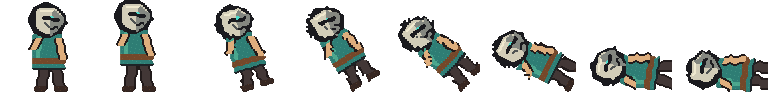
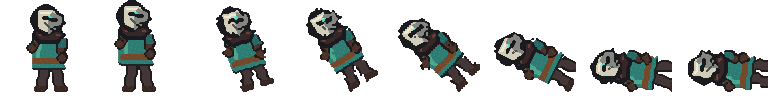
Unify Wayfarer mask and body design

diff --git a/tools/build_pixel_assets.py b/tools/build_pixel_assets.py
@@ -395,6 +395,18 @@ def limb(surface, color, start, end, width):
     pygame.draw.line(surface, color, start, end, width)
 
 
+def wrapped_arm(surface, sleeve, glove, start, hand):
+    """Join the masked head to a fully clothed, non-human silhouette."""
+    elbow = (
+        round(start[0] * .54 + hand[0] * .46),
+        round(start[1] * .54 + hand[1] * .46),
+    )
+    limb(surface, sleeve, start, elbow, 4)
+    limb(surface, glove, elbow, hand, 3)
+    pygame.draw.circle(surface, (34, 27, 27), hand, 3)
+    pygame.draw.circle(surface, glove, hand, 2)
+
+
 def hero_frame(state, frame, total):
     surface = pygame.Surface((48, 48), pygame.SRCALPHA)
     x = 24
@@ -442,13 +454,14 @@ def hero_frame(state, frame, total):
         fallen = rotated.subsurface(bounds).copy()
         result.blit(fallen, fallen.get_rect(midbottom=(24 + min(6, frame), 46)))
         return result
-    skin = (222, 174, 125)
     hood = (55, 39, 40)
     hood_light = (101, 64, 51)
     tunic = (46, 125, 116)
     tunic_light = (75, 166, 141)
+    sleeve = (38, 105, 100)
     trousers = (66, 55, 54)
     leather = (116, 72, 42)
+    glove = (74, 51, 42)
     boot = (55, 39, 34)
     body_y = 25 + bob
     # The torso and head stay on a fixed skeleton. Motion comes from whole-body
@@ -473,7 +486,7 @@ def hero_frame(state, frame, total):
     limb(surface, trousers, (hip[0] + 3, hip[1]), right_foot, 4)
     pygame.draw.line(surface, boot, (left_foot[0] - 3, left_foot[1]), (left_foot[0] + 2, left_foot[1]), 3)
     pygame.draw.line(surface, boot, (right_foot[0] - 2, right_foot[1]), (right_foot[0] + 4, right_foot[1]), 3)
-    torso = [(shoulder_center - 7, body_y - 9), (shoulder_center + 6, body_y - 9), (hip[0] + 8, body_y + 8), (hip[0] - 8, body_y + 8)]
+    torso = [(shoulder_center - 8, body_y - 9), (shoulder_center + 7, body_y - 9), (hip[0] + 8, body_y + 8), (hip[0] - 8, body_y + 8)]
     pygame.draw.polygon(surface, (30, 35, 38), [(a, b + 1) for a, b in torso])
     pygame.draw.polygon(surface, tunic, torso)
     pygame.draw.line(surface, tunic_light, (shoulder_center - 5, body_y - 7), (hip[0] - 6, body_y + 5), 2)
@@ -508,12 +521,24 @@ def hero_frame(state, frame, total):
     elif state == "victory":
         right_hand = (x + 5, body_y - 15)
         left_hand = (x - 11, body_y - 4)
-    limb(surface, skin, (shoulder_center - 5, shoulder_y), left_hand, 3)
-    limb(surface, skin, (shoulder_center + 5, shoulder_y), right_hand, 3)
+    wrapped_arm(surface, sleeve, glove, (shoulder_center - 6, shoulder_y), left_hand)
+    wrapped_arm(surface, sleeve, glove, (shoulder_center + 6, shoulder_y), right_hand)
     # Equipment is intentionally not baked into the body sheet. The game draws
     # the exact equipped item over these hands, so a new sword or shield is
     # visible immediately instead of leaving the starter gear on the hero.
     neck = (shoulder_center, body_y - 10)
+    cowl_outline = [
+        (neck[0] - 8, neck[1] + 2), (neck[0] - 5, neck[1] - 3),
+        (neck[0] + 5, neck[1] - 3), (neck[0] + 8, neck[1] + 2),
+        (neck[0] + 5, neck[1] + 6), (neck[0] - 5, neck[1] + 6),
+    ]
+    pygame.draw.polygon(surface, (27, 27, 31), cowl_outline)
+    pygame.draw.polygon(surface, hood, [
+        (neck[0] - 6, neck[1] + 2), (neck[0] - 4, neck[1] - 2),
+        (neck[0] + 4, neck[1] - 2), (neck[0] + 6, neck[1] + 2),
+        (neck[0] + 4, neck[1] + 4), (neck[0] - 4, neck[1] + 4),
+    ])
+    pygame.draw.line(surface, hood_light, (neck[0] - 5, neck[1] + 2), (neck[0] + 5, neck[1] + 2), 1)
     pygame.draw.rect(surface, hood, (neck[0] - 3, neck[1] - 2, 7, 5))
     pygame.draw.line(surface, hood_light, (neck[0] - 2, neck[1] - 1), (neck[0] + 2, neck[1] - 1), 1)
     head = (shoulder_center, body_y - 15)
@@ -522,32 +547,32 @@ def hero_frame(state, frame, total):
     mask_light = (239, 233, 207)
     mask_shadow = (132, 135, 128)
     mask_eye = (77, 218, 202)
-    pygame.draw.circle(surface, outline, (head[0] - 1, head[1]), 9)
-    pygame.draw.circle(surface, hood, (head[0] - 1, head[1]), 7)
+    pygame.draw.circle(surface, outline, (head[0] - 1, head[1]), 8)
+    pygame.draw.circle(surface, hood, (head[0] - 1, head[1]), 6)
     outer_mask = [
-        (head[0] - 6, head[1] - 7), (head[0] + 4, head[1] - 7),
-        (head[0] + 8, head[1] - 3), (head[0] + 9, head[1] + 1),
-        (head[0] + 6, head[1] + 6), (head[0] + 1, head[1] + 8),
-        (head[0] - 5, head[1] + 6), (head[0] - 8, head[1] + 2),
-        (head[0] - 8, head[1] - 4),
+        (head[0] - 6, head[1] - 6), (head[0] + 3, head[1] - 6),
+        (head[0] + 7, head[1] - 3), (head[0] + 8, head[1] + 1),
+        (head[0] + 5, head[1] + 5), (head[0], head[1] + 7),
+        (head[0] - 5, head[1] + 5), (head[0] - 7, head[1] + 2),
+        (head[0] - 7, head[1] - 3),
     ]
     mask = [
-        (head[0] - 5, head[1] - 6), (head[0] + 3, head[1] - 6),
-        (head[0] + 7, head[1] - 2), (head[0] + 7, head[1] + 1),
-        (head[0] + 4, head[1] + 5), (head[0] + 1, head[1] + 7),
-        (head[0] - 4, head[1] + 5), (head[0] - 6, head[1] + 2),
-        (head[0] - 6, head[1] - 3),
+        (head[0] - 5, head[1] - 5), (head[0] + 2, head[1] - 5),
+        (head[0] + 6, head[1] - 2), (head[0] + 6, head[1] + 1),
+        (head[0] + 3, head[1] + 4), (head[0], head[1] + 6),
+        (head[0] - 4, head[1] + 4), (head[0] - 5, head[1] + 2),
+        (head[0] - 5, head[1] - 2),
     ]
     pygame.draw.polygon(surface, outline, outer_mask)
     pygame.draw.polygon(surface, mask_bone, mask)
     pygame.draw.polygon(surface, mask_shadow, [
-        (head[0] + 3, head[1] - 5), (head[0] + 7, head[1] - 2),
-        (head[0] + 7, head[1] + 1), (head[0] + 4, head[1] + 5),
-        (head[0] + 1, head[1] + 7), (head[0] + 1, head[1] + 2),
+        (head[0] + 2, head[1] - 4), (head[0] + 6, head[1] - 2),
+        (head[0] + 6, head[1] + 1), (head[0] + 3, head[1] + 4),
+        (head[0], head[1] + 6), (head[0], head[1] + 2),
     ])
-    pygame.draw.line(surface, mask_light, (head[0] - 4, head[1] - 5), (head[0] + 2, head[1] - 5), 1)
-    pygame.draw.line(surface, outline, (head[0] - 3, head[1] - 2), (head[0] + 5, head[1] - 1), 2)
-    pygame.draw.rect(surface, mask_eye, (head[0] + 1, head[1] - 2, 2, 1))
+    pygame.draw.line(surface, mask_light, (head[0] - 4, head[1] - 4), (head[0] + 1, head[1] - 4), 1)
+    pygame.draw.line(surface, outline, (head[0] - 3, head[1] - 2), (head[0] + 4, head[1] - 1), 2)
+    pygame.draw.rect(surface, mask_eye, (head[0], head[1] - 2, 2, 1))
     pygame.draw.line(surface, (78, 82, 82), (head[0] - 2, head[1] + 1), (head[0] + 1, head[1] + 4), 1)
     pygame.draw.line(surface, outline, (head[0] + 1, head[1] + 4), (head[0] + 4, head[1] + 3), 1)
     if state == "victory":

diff --git a/tools/qa_release.py b/tools/qa_release.py
@@ -47,6 +47,8 @@ SPECIAL_TRINKETS = (
     "sovereign_reliquary",
 )
 
+HERO_LAYOUTS = {"idle": 6, "run": 8, "attack": 8, "critical": 10, "hurt": 4, "guard": 5, "victory": 6, "defeat": 8}
+
 
 def pygame_to_pil(surface):
     return Image.frombytes("RGB", surface.get_size(), pygame.image.tobytes(surface, "RGB"))
@@ -248,6 +250,35 @@ def test_enemy_canvases(game):
         assert len(sizes) == 1, (enemy_id, sizes)
 
 
+def test_hero_cohesion(game):
+    for state, expected_count in HERO_LAYOUTS.items():
+        frames = game.sprites.frames.get(("hero", state), [])
+        assert len(frames) == expected_count, (state, len(frames))
+        for frame in frames:
+            assert frame.get_size() == (96, 96)
+            bounds = frame.get_bounding_rect(min_alpha=8)
+            assert bounds.width <= 94 and bounds.height <= 94, (state, bounds)
+            # The old human face/hand palette must not leak back into any pose.
+            assert all(frame.get_at((x, y))[:3] != (222, 174, 125) for y in range(96) for x in range(96))
+
+    idle = game.sprites.frames[("hero", "idle")][0]
+    mask_points = []
+    cloth_points = []
+    for y in range(96):
+        for x in range(96):
+            r, g, b, alpha = idle.get_at((x, y))
+            if alpha < 16:
+                continue
+            if r > 160 and g > 155 and b > 140 and abs(r - g) < 25 and r > b and g > b:
+                mask_points.append((x, y))
+            if g > r * 1.45 and g > b * 1.02 and 75 < g < 205:
+                cloth_points.append((x, y))
+    assert mask_points and cloth_points
+    mask_width = max(x for x, _ in mask_points) - min(x for x, _ in mask_points) + 1
+    torso_width = max(x for x, _ in cloth_points) - min(x for x, _ in cloth_points) + 1
+    assert mask_width <= torso_width * .65, (mask_width, torso_width)
+
+
 def render_animation(game, output_dir, state, frame_count, duration_ms):
     frames = []
     for index in range(frame_count):
@@ -268,6 +299,24 @@ def render_animation(game, output_dir, state, frame_count, duration_ms):
         loop=0,
         optimize=False,
     )
+
+
+def render_hero_state_catalog(game, output_dir):
+    surface = pygame.Surface((1200, 670))
+    surface.fill((8, 12, 17))
+    game.ui.text(surface, "BONEBOUND  •  WAYFARER BODY COHESION", (40, 26), COLORS["gold"], "medium")
+    chosen_frames = {"idle": 0, "run": 2, "attack": 5, "critical": 7, "hurt": 1, "guard": 3, "victory": 2, "defeat": 5}
+    for index, state in enumerate(HERO_LAYOUTS):
+        row, col = divmod(index, 4)
+        card = pygame.Rect(25 + col * 292, 72 + row * 292, 274, 268)
+        game.ui.ornamented_panel(surface, card, (15, 21, 28), (67, 119, 116), 10, 2)
+        pygame.draw.circle(surface, (32, 41, 49), (card.centerx, card.y + 118), 86, 2)
+        pygame.draw.line(surface, (91, 69, 49), (card.x + 23, card.y + 225), (card.right - 23, card.y + 225), 3)
+        frame = game.sprites.frames[("hero", state)][chosen_frames[state]]
+        enlarged = pygame.transform.scale(frame, (230, 230))
+        surface.blit(enlarged, enlarged.get_rect(midbottom=(card.centerx, card.y + 230)))
+        game.ui.text(surface, state.upper(), (card.centerx, card.bottom - 25), COLORS["text"], "small", "center")
+    pygame.image.save(surface, output_dir / "hero_body_cohesion_v9.png")
 
 
 def render_potion_catalog(game, output_dir):
@@ -489,8 +538,10 @@ def main():
     test_launch_balance()
     test_rat_animation(game)
     test_enemy_canvases(game)
+    test_hero_cohesion(game)
     render_animation(game, output_dir, "attack", 8, 82)
     render_animation(game, output_dir, "critical", 10, 70)
+    render_hero_state_catalog(game, output_dir)
     render_potion_catalog(game, output_dir)
     render_fusion_catalog(game, output_dir)
     render_entrance_animation(game, output_dir)

diff --git a/game.py b/game.py
@@ -1556,7 +1556,8 @@ class Game:
             blit_at_grip(image, right_grip, angle)
             hand_radius = max(2, round(1.65 * unit))
             pygame.draw.circle(self.screen_surface, (34, 27, 27), (round(right_grip[0]), round(right_grip[1])), hand_radius + 1)
-            pygame.draw.circle(self.screen_surface, (222, 174, 125), (round(right_grip[0]), round(right_grip[1])), hand_radius)
+            pygame.draw.circle(self.screen_surface, (74, 51, 42), (round(right_grip[0]), round(right_grip[1])), hand_radius)
+            pygame.draw.circle(self.screen_surface, (126, 83, 53), (round(right_grip[0] - unit * .4), round(right_grip[1] - unit * .4)), max(1, round(unit * .45)))
 
     def draw_enemy(self, pos, enemy, anim, clock):
         color = ELEMENT_COLORS[enemy.element]
